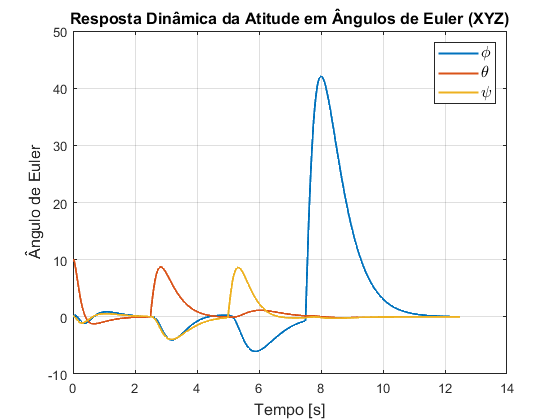
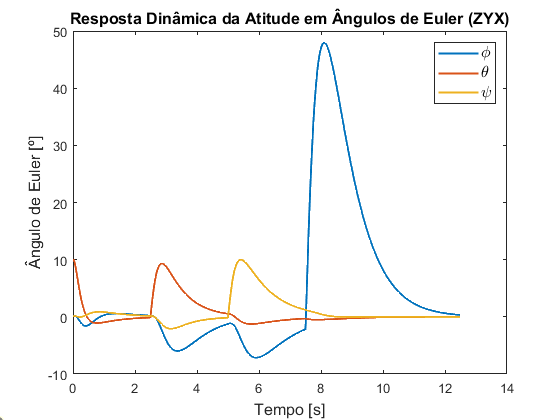
Angulos de Euler corrigido

diff --git a/Simulink/Plots_obs.m b/Simulink/Plots_obs.m
@@ -44,9 +44,9 @@ legend("$\omega_x$","$\omega_y$","$\omega_z$","Interpreter",'latex','FontSize',1
 
 figure(7)
 plot(t,euler(:,1:3),"LineWidth",1.5)
-title("Resposta Dinâmica da Atitude em Ângulos de Euler (XYZ)",'FontSize',12)
+title("Resposta Dinâmica da Atitude em Ângulos de Euler (ZYX)",'FontSize',12)
 xlabel("Tempo [s]","FontSize",12)
-ylabel("Ângulo de Euler","FontSize",12)
+ylabel("Ângulo de Euler [º]","FontSize",12)
 legend("$\phi$","$\theta$","$\psi$","Interpreter",'latex','FontSize',12)
 
 %% Plot da resposta dinâmica controlada não linear

diff --git a/Simulink/Plots_control.m b/Simulink/Plots_control.m
@@ -22,9 +22,9 @@ legend("$\tau_x$","$\tau_y$","$\tau_z$","Interpreter",'latex','FontSize',12)
 
 figure(4)
 plot(t,euler(:,1:3),"LineWidth",1.5)
-title("Resposta Dinâmica da Atitude em Ângulos de Euler (XYZ)",'FontSize',12)
+title("Resposta Dinâmica da Atitude em Ângulos de Euler (ZYX)",'FontSize',12)
 xlabel("Tempo [s]","FontSize",12)
-ylabel("Ângulo de Euler","FontSize",12)
+ylabel("Ângulo de Euler [º]","FontSize",12)
 legend("$\phi$","$\theta$","$\psi$","Interpreter",'latex','FontSize',12)
 
 %% Plot da resposta dinâmica controlada não linear
